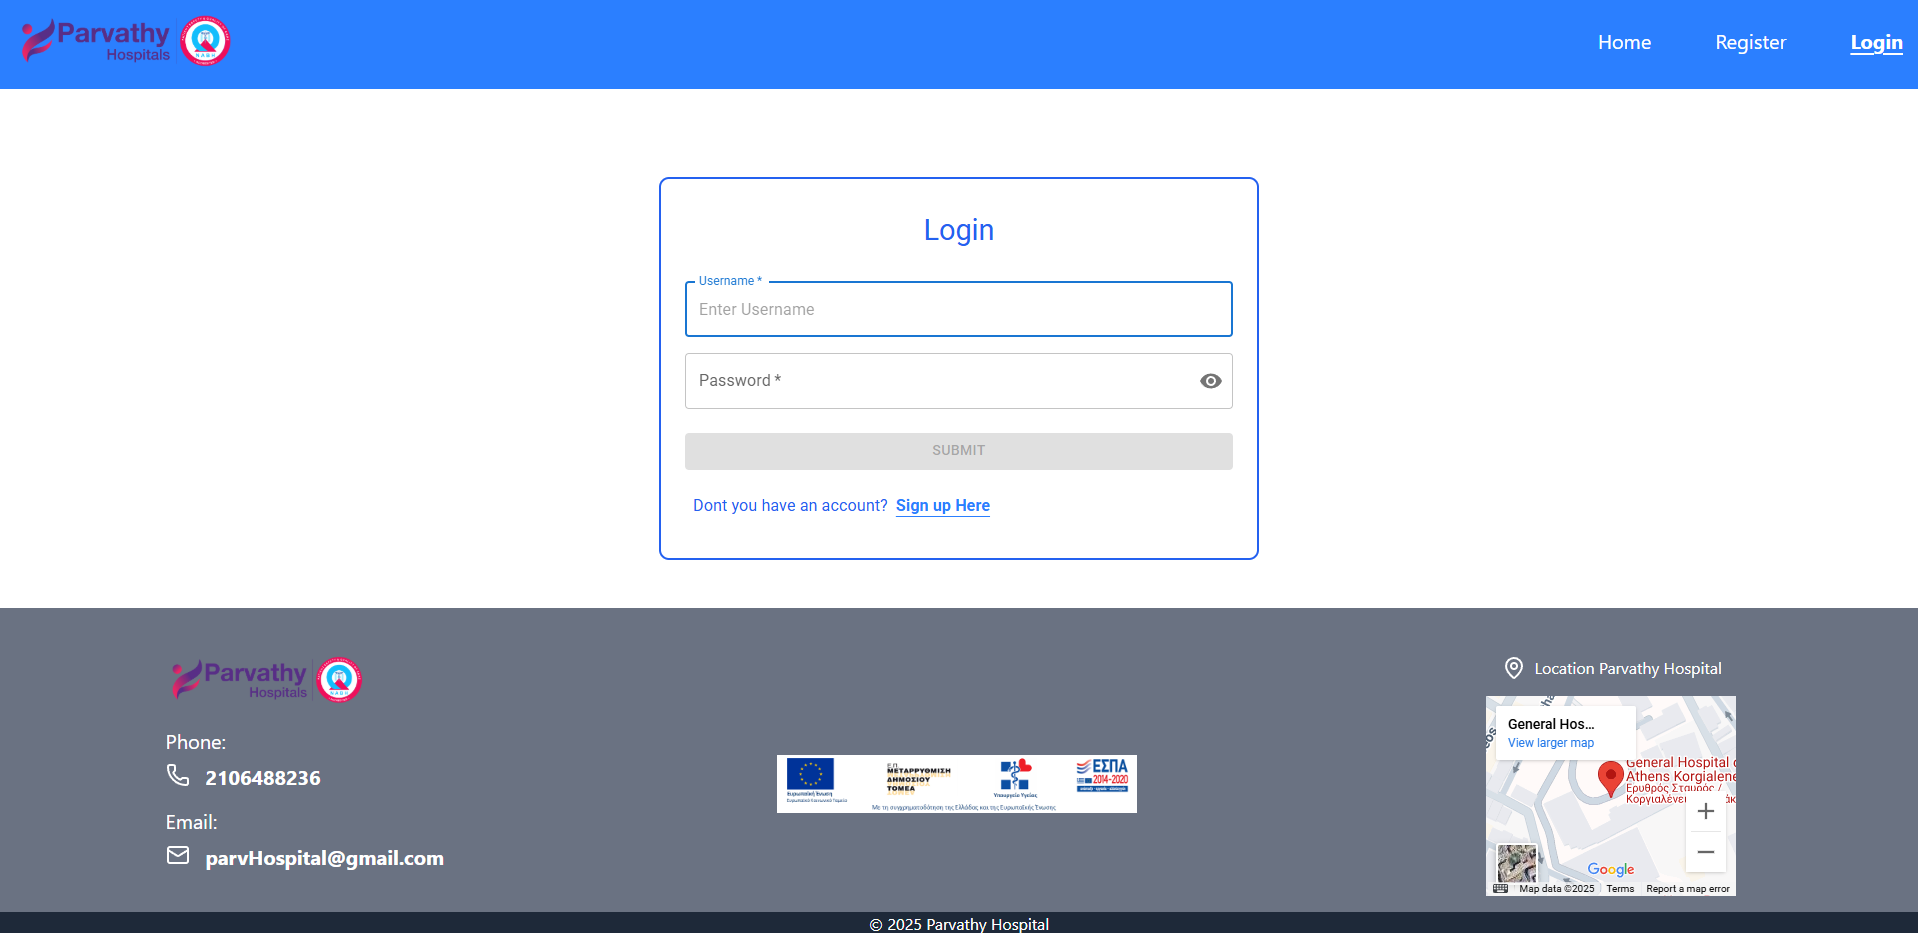
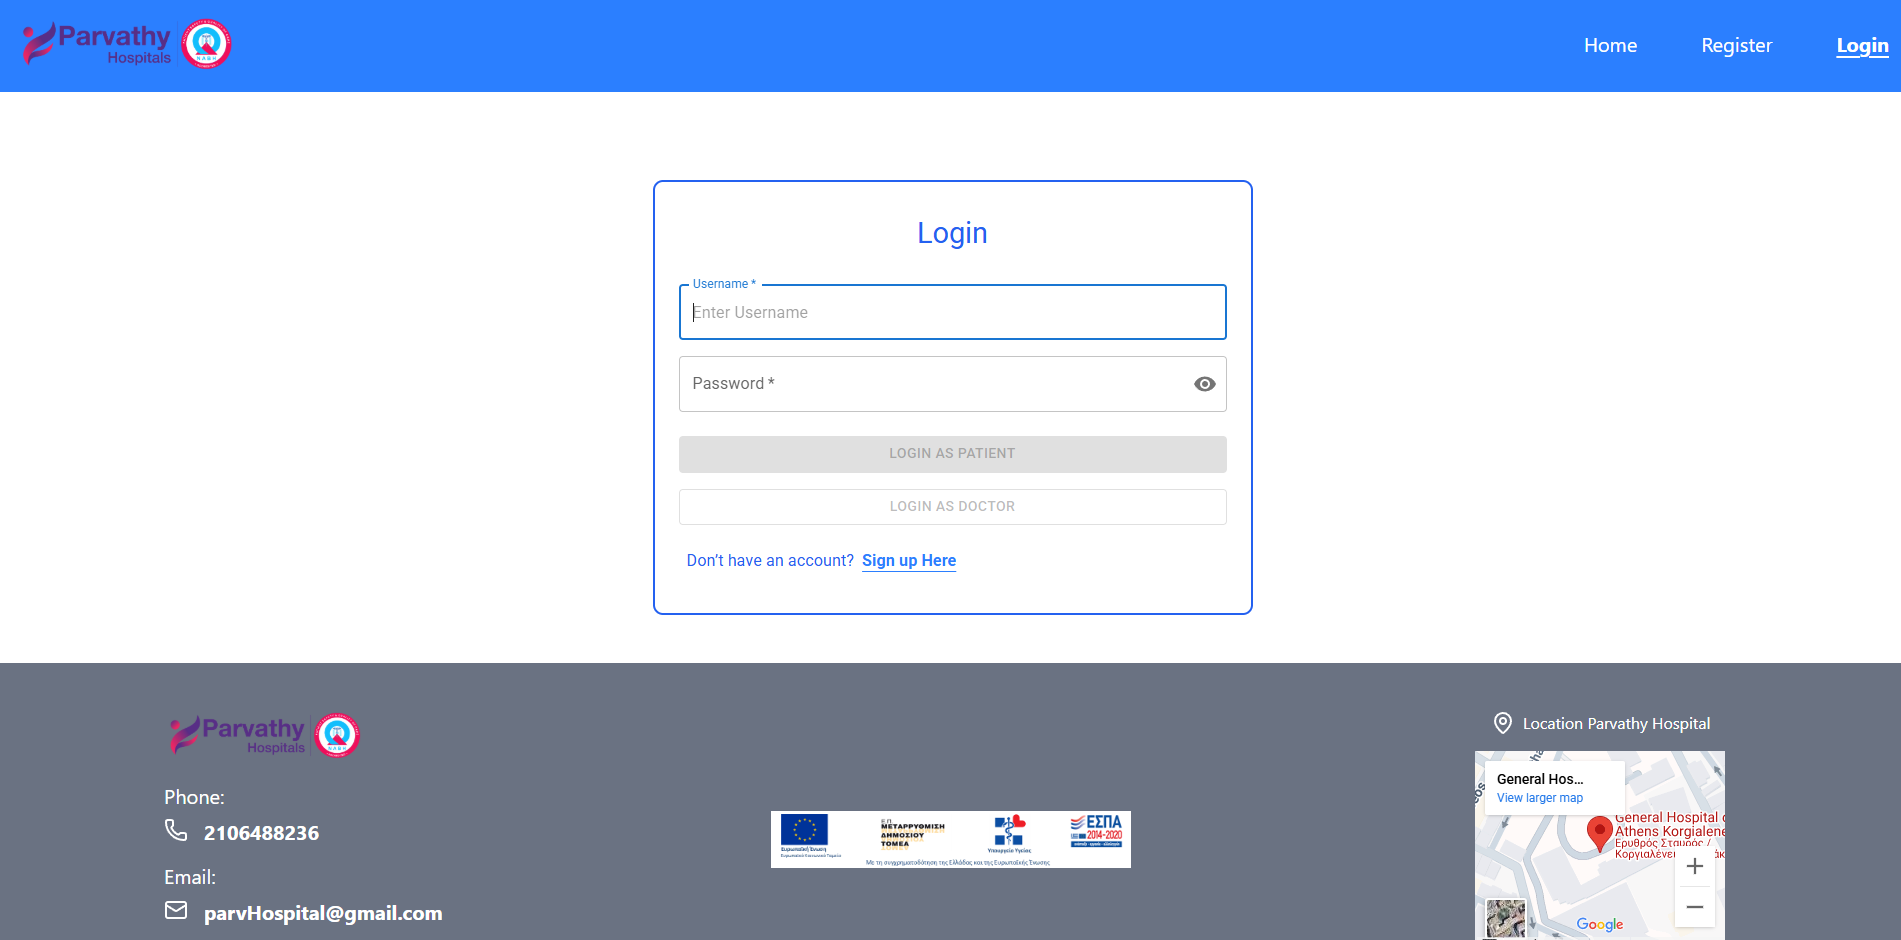
Feat: Readme updated

diff --git a/README.md b/README.md
@@ -26,6 +26,7 @@ You can try logging in with the following test accounts:
 |--------|-----------|----------|
 | Admin  | vergoulis | 12345    |
 | Patient| mairh     | 12345    |
+| Doctor | willy     | 12345    |
 
 
 # 1. Clone the repository
@@ -48,20 +49,27 @@ npm run dev
 | `zod`                             | Schema validation with form integration             |
 | `@mui/material`, `icons`, `grid` | Elegant UI components & data grids                  |
 | `@emotion/react`, `styled`       | MUI styling system                                  |
-| `@fontsource/roboto`             | Roboto font for consistent design                   |
+| `@fontsource/roboto`             | Roboto font for consistent design                    |
 | `axios`                           | API calls and HTTP requests                         |
 | `jwt-decode`                      | Decodes JWT tokens for access control               |
 | `lucide-react`                    | Iconography (clean, sharp React icons)              |
 | `tailwindcss`, `@tailwindcss/vite`| Utility-first CSS styling, integrated with Vite     |
+| `react-big-calendar`               |  Calendar & scheduling UI with customizable views  |
+| `react- toastify`                  | Toast notification for user feedback and alerts    |
 | `vite`                            | Fast dev server and bundler (in devDependencies)    |
 
 
-# 🛡 Authorization Logic
-Users are redirected based on authentication and role.
 
-Admin users gain access to restricted /admin, /admin-user, and CRUD routes.
+🛡 Authorization Logic
+Users are redirected based on authentication status and role.
+
+Admin users gain access to restricted routes such as /admin, /admin-user, and all CRUD operations.
+
+Doctor users have their own login and are redirected to a dedicated dashboard. They can view and manage their own appointments
 
 Non-authenticated users cannot access protected pages and are redirected to /login.
+
+This role-based access ensures that each user only interacts with the parts of the system relevant to their responsibilities
 
 
 
@@ -93,6 +101,9 @@ Non-authenticated users cannot access protected pages and are redirected to /log
 
 ### 🧑⚕ Doctors Page
 ![Doctors](public/screenshots/adminDoctors.png)
+
+### 🧑⚕ Doctors Appointments Page
+![Doctors Appointments Page](public/screenshots/DoctorAppointment.png)
 
 ### 🧑⚕ Doctors Create Page
 ![Doctors Create](public/screenshots/createDoctor.png)
